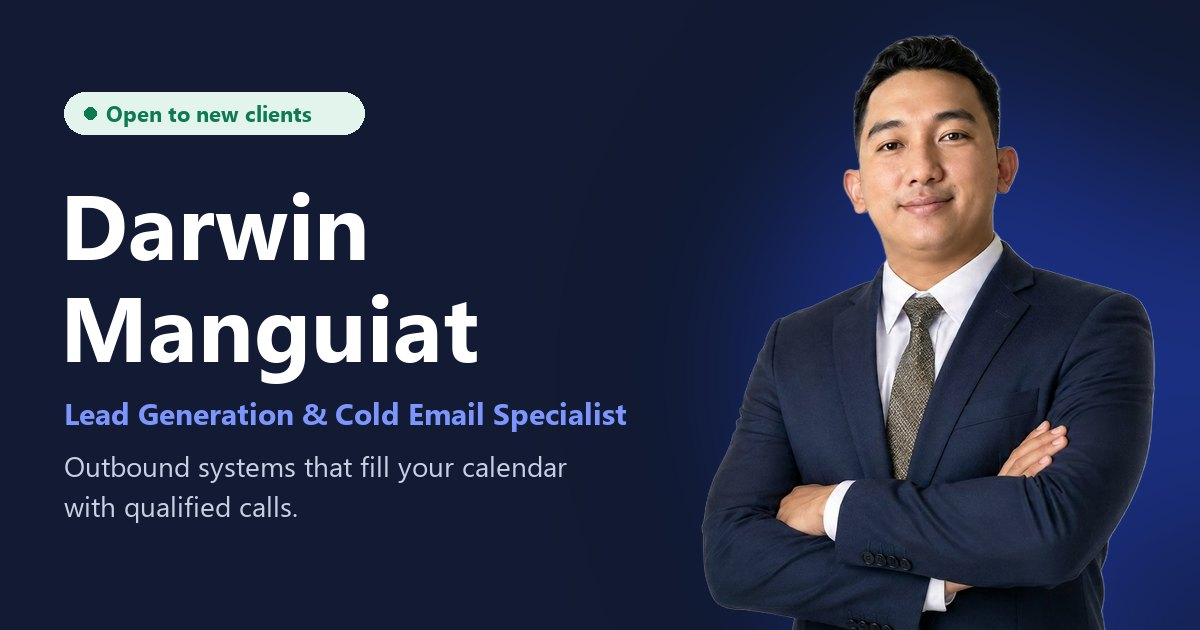
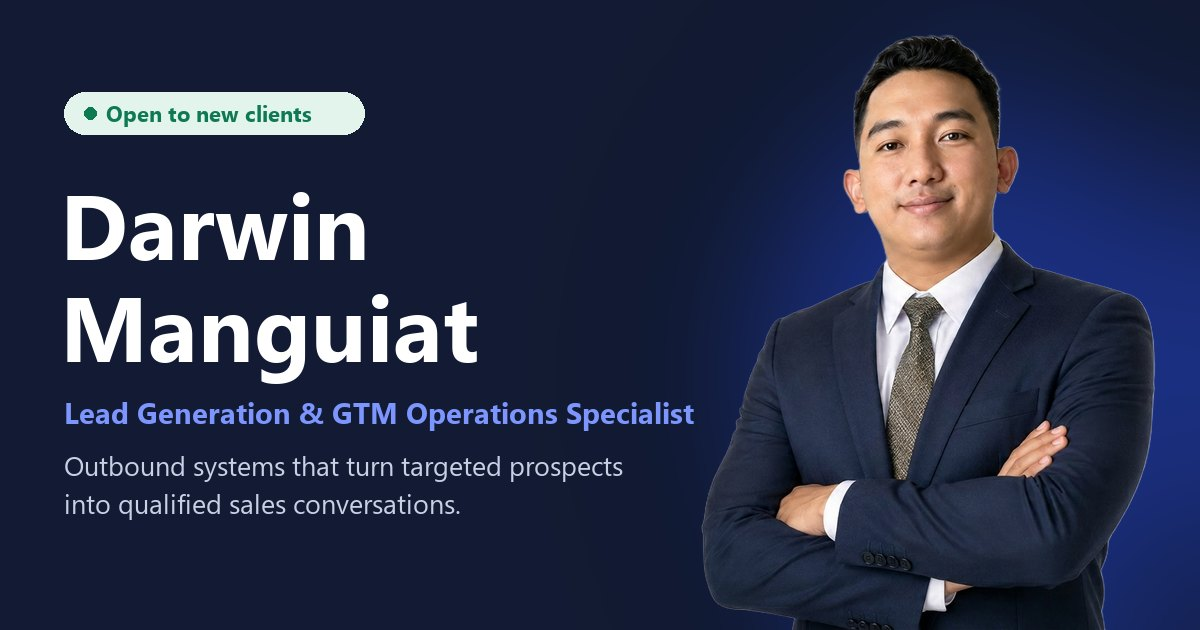
Group services into three specialties, add job title and campaign results

Changed region(s): [[0.0617, 0.6333, 0.5858, 0.6937], [0.0308, 0.7238, 0.5242, 0.8444]]

diff --git a/index.html b/index.html
@@ -7,8 +7,8 @@
 <link rel="canonical" href="https://dmanguiat.github.io/">
 <meta property="og:type" content="website">
 <meta property="og:url" content="https://dmanguiat.github.io/">
-<meta property="og:title" content="Darwin Manguiat | Lead Generation &amp; Cold Email Specialist">
-<meta property="og:description" content="Outbound systems that fill your calendar with qualified calls. Lead lists, deliverability, sequences, reply handling and booked meetings.">
+<meta property="og:title" content="Darwin Manguiat | Lead Generation &amp; GTM Operations Specialist">
+<meta property="og:description" content="Outbound systems that turn targeted prospects into qualified sales conversations: lead lists, cold email, deliverability, CRM and workflow automation.">
 <meta property="og:image" content="https://dmanguiat.github.io/og.jpg">
 <meta property="og:image:width" content="1200">
 <meta property="og:image:height" content="630">
@@ -20,7 +20,7 @@ body{margin:0}
 img{max-width:100%}
 [hidden]{display:none!important}
 </style>
-<title>Darwin Manguiat | Lead Generation &amp; Cold Email Specialist</title>
+<title>Darwin Manguiat | Lead Generation &amp; GTM Operations Specialist</title>
 <meta name="claude:viewport-fit-sides" content="cover">
 <meta name="description" content="Darwin Manguiat, lead generation and cold email specialist. Outbound systems that book qualified calls.">
 <link rel="preconnect" href="https://fonts.googleapis.com">
@@ -107,6 +107,7 @@ body,header.nav,.mail,.svc,.case,figure.q,.process{transition:background-color .
 .status{display:inline-flex;align-items:center;gap:8px;font-size:13px;font-weight:500;color:var(--win);background:var(--win-soft);padding:6px 12px;border-radius:99px;margin-bottom:22px}
 .status i{width:8px;height:8px;border-radius:50%;background:var(--win);box-shadow:0 0 0 0 var(--win);animation:pulse 2.4s infinite}
 @keyframes pulse{0%{box-shadow:0 0 0 0 color-mix(in srgb,var(--win) 60%,transparent)}70%{box-shadow:0 0 0 8px transparent}100%{box-shadow:0 0 0 0 transparent}}
+.hero .role{font-family:var(--display);font-weight:700;font-size:18px;color:var(--accent);margin-bottom:12px}
 .hero h1{font-size:clamp(38px,5.4vw,62px);line-height:1.04;font-weight:800}
 .hero h1 em{font-style:normal;color:var(--accent)}
 .hero .lede{font-size:18px;color:var(--muted);max-width:52ch;margin-top:20px}
@@ -165,6 +166,38 @@ section.block{padding-block:88px}
 .svc .tag{font-family:var(--mono);font-size:12px;color:var(--accent)}
 @media (max-width:1000px){.services{grid-template-columns:1fr 1fr}}
 @media (max-width:600px){.services{grid-template-columns:1fr}}
+
+/* specialties */
+.spec{display:grid;grid-template-columns:1.15fr 1fr 1fr;gap:20px;align-items:start}
+.spec-col{background:var(--surface);border:1px solid var(--line);border-radius:16px;padding:28px;display:grid;gap:16px;align-content:start;min-width:0}
+.spec-col.core{border-color:var(--accent);box-shadow:0 0 0 3px var(--accent-soft)}
+.spec-badge{font:600 12px var(--body);padding:4px 10px;border-radius:99px;justify-self:start;background:var(--bg);color:var(--muted);border:1px solid var(--line)}
+.spec-col.core .spec-badge{background:var(--accent);color:var(--accent-ink);border-color:var(--accent)}
+.spec-col h3{font-size:22px;font-weight:700;line-height:1.2}
+.spec-col > p{color:var(--muted);font-size:15px}
+.spec-list{list-style:none;margin:0;padding:18px 0 0;display:grid;gap:14px;border-top:1px solid var(--line)}
+.spec-list b{display:block;font-size:15.5px;font-weight:600}
+.spec-list span{font-size:14px;color:var(--muted)}
+@media (max-width:1000px){.spec{grid-template-columns:1fr}}
+
+/* campaign evidence table */
+.evidence{background:var(--surface);border:1px solid var(--line);border-radius:16px;padding:28px;margin-bottom:28px;display:grid;gap:18px;min-width:0}
+.ev-head{display:flex;flex-wrap:wrap;justify-content:space-between;align-items:baseline;gap:10px 24px}
+.ev-head h3{font-size:22px;font-weight:700}
+.ev-head a{font-weight:600;color:var(--accent);text-decoration:none}
+.ev-head a:hover{text-decoration:underline}
+.ev-table{overflow-x:auto;min-width:0}
+.ev-table table{border-collapse:collapse;width:100%;font-variant-numeric:tabular-nums;white-space:nowrap}
+.ev-table th{font-family:var(--mono);font-size:11px;font-weight:500;letter-spacing:.06em;text-transform:uppercase;color:var(--muted);text-align:right;padding:10px 14px;border-bottom:1px solid var(--line)}
+.ev-table td{padding:14px;text-align:right;border-bottom:1px solid var(--line);font-size:15px}
+.ev-table th:first-child,.ev-table td:first-child{text-align:left;padding-left:0}
+.ev-table tr:last-child td{border-bottom:0}
+.ev-table td.big{font-family:var(--display);font-weight:700;font-size:20px}
+.ev-table td.rr{color:var(--win);font-weight:600}
+.ev-table .prog b{display:block;font-weight:600}
+.ev-table .prog span{font-size:13px;color:var(--muted)}
+.ev-note{font-size:13px;color:var(--muted)}
+@media (max-width:600px){.evidence{padding:20px 16px}}
 
 /* process */
 .process{background:var(--surface);border-block:1px solid var(--line)}
@@ -366,6 +399,7 @@ footer .wrap{display:flex;justify-content:space-between;gap:12px;flex-wrap:wrap}
     <div class="wrap">
       <div>
         <div class="status"><i></i>Open to new clients · Philippines (remote)</div>
+        <p class="role">Lead Generation &amp; GTM Operations Specialist</p>
         <h1>I build outbound systems that fill your calendar with <em>qualified calls</em>.</h1>
         <p class="lede">Lead generation and cold email specialist. I handle the whole pipeline: lead lists, deliverability, sequences, inbox replies and booked meetings.</p>
         <div class="ctas">
@@ -373,7 +407,7 @@ footer .wrap{display:flex;justify-content:space-between;gap:12px;flex-wrap:wrap}
           <a class="btn btn-ghost" href="#work">See case studies</a>
           <a class="btn btn-ghost" href="https://drive.google.com/file/d/1bTu3iyaLOcA62vVIAhjjKeeh6_ApAZ7h/view?usp=sharing" target="_blank" rel="noopener">Resume</a>
         </div>
-        <p class="who"><b>Darwin Manguiat</b> · 8+ years supporting US businesses in lead gen, executive support and QA</p>
+        <p class="who"><b>Darwin Manguiat</b> · 3+ years in lead generation and GTM operations · 8+ years supporting US businesses overall</p>
       </div>
 
       <div class="hero-visual">
@@ -424,17 +458,42 @@ footer .wrap{display:flex;justify-content:space-between;gap:12px;flex-wrap:wrap}
     <div class="wrap">
       <div class="sec-head">
         <span class="eyebrow">Services</span>
-        <h2>Everything that turns strangers into booked calls</h2>
+        <h2>Three specialties, one goal: more qualified sales conversations</h2>
       </div>
-      <div class="services">
-        <div class="svc"><span class="tag">Prospecting</span><h3>Lead generation</h3><p>Targeted research to find, verify and qualify high-value prospects that fit your ideal customer profile.</p></div>
-        <div class="svc"><span class="tag">Outbound</span><h3>Cold email outreach</h3><p>Multi-step sequences with personalised copy. One campaign increased qualified leads by 25%.</p></div>
-        <div class="svc"><span class="tag">Technical</span><h3>Email deliverability</h3><p>SMTP, SPF, DKIM and DMARC set up from scratch, plus domain warm-up so your emails reach the inbox.</p></div>
-        <div class="svc"><span class="tag">Replies</span><h3>Inbox management</h3><p>I handle replies across multiple inboxes, qualify leads, follow up and book appointments so no opportunity is missed.</p></div>
-        <div class="svc"><span class="tag">LinkedIn</span><h3>LinkedIn outreach</h3><p>Connection and DM sequences with Sales Navigator targeting, plus appointment setting.</p></div>
-        <div class="svc"><span class="tag">Data</span><h3>CRM management</h3><p>Clean, organised pipelines in HubSpot, GoHighLevel and Pipedrive, so every lead's status is clear.</p></div>
-        <div class="svc"><span class="tag">Social</span><h3>Social media management</h3><p>Content calendars, scheduled posts and community replies that keep your brand visible and build trust before the first email lands.</p></div>
-        <div class="svc"><span class="tag">Paid ads</span><h3>Media buying</h3><p>Meta and Google ad campaigns: audience targeting, budget allocation and weekly optimisation to lower your cost per lead.</p></div>
+      <div class="spec">
+        <div class="spec-col core">
+          <span class="spec-badge">Core specialty</span>
+          <h3>Outbound Lead Generation</h3>
+          <p>Finding the right prospects and turning them into booked sales conversations.</p>
+          <ul class="spec-list">
+            <li><b>Prospect research &amp; list building</b><span>ICP-matched, verified contacts from Apollo, Clay and Sales Navigator.</span></li>
+            <li><b>Cold email outreach</b><span>Personalised multi-step sequences in Instantly, Smartlead or Lemlist.</span></li>
+            <li><b>Email deliverability</b><span>SMTP, SPF, DKIM and DMARC setup plus domain warm-up.</span></li>
+            <li><b>LinkedIn outreach</b><span>Connection and DM sequences with Sales Navigator targeting.</span></li>
+            <li><b>Inbox management &amp; appointment setting</b><span>Reply handling, lead qualification, follow-ups and booked calls.</span></li>
+          </ul>
+        </div>
+        <div class="spec-col">
+          <span class="spec-badge">Operations</span>
+          <h3>GTM Operations &amp; Automation</h3>
+          <p>The systems behind outbound, so leads move through the pipeline without manual work.</p>
+          <ul class="spec-list">
+            <li><b>CRM management</b><span>Clean pipelines in HubSpot, GoHighLevel and Pipedrive.</span></li>
+            <li><b>Workflow automation</b><span>n8n, Make and Zapier workflows that connect your sales tools.</span></li>
+            <li><b>Lead enrichment &amp; verification</b><span>Clay enrichment and email verification before anything is sent.</span></li>
+            <li><b>Reporting</b><span>Campaign and pipeline reports your team can act on.</span></li>
+          </ul>
+        </div>
+        <div class="spec-col">
+          <span class="spec-badge">Supporting</span>
+          <h3>Digital Marketing Support</h3>
+          <p>Keeping your brand visible while outbound does the heavy lifting.</p>
+          <ul class="spec-list">
+            <li><b>Social media management</b><span>Content calendars, scheduled posts and community replies.</span></li>
+            <li><b>Media buying</b><span>Meta and Google ad campaigns: targeting, budgets and optimisation.</span></li>
+            <li><b>AI content workflows</b><span>Automated copy and creative drafts with an approval step.</span></li>
+          </ul>
+        </div>
       </div>
     </div>
   </section>
@@ -481,6 +540,21 @@ footer .wrap{display:flex;justify-content:space-between;gap:12px;flex-wrap:wrap}
         <span class="eyebrow">Case studies</span>
         <h2>Real campaigns: the problem, what I did, and the result</h2>
       </div>
+      <div class="evidence">
+        <div class="ev-head"><h3>Cold email programs I've managed</h3><a href="https://darwinmportfolio.lovable.app/Cold-Email-Portfolio.pdf" target="_blank" rel="noopener">See the dashboard screenshots (PDF) →</a></div>
+        <div class="ev-table">
+          <table>
+            <thead><tr><th>Program</th><th>Emails sent</th><th>Reply rate</th><th>Opportunities</th><th>Revenue tracked</th></tr></thead>
+            <tbody>
+              <tr><td class="prog"><b>GTM industry</b><span>High-volume outreach · Feb to Feb (about 12 months)</span></td><td class="big">767.6K</td><td class="rr">4.52%</td><td>4,500</td><td>$11,016</td></tr>
+              <tr><td class="prog"><b>Franchising</b><span>Enterprise-scale outreach · Apr to Oct (about 6 months)</span></td><td class="big">4.56M</td><td class="rr">2.68%</td><td>8,600</td><td>$8,610</td></tr>
+              <tr><td class="prog"><b>Funding</b><span>Targeted outreach · Nov to Feb (about 3 months)</span></td><td class="big">50K</td><td class="rr">2.92%</td><td>75</td><td>—</td></tr>
+            </tbody>
+          </table>
+        </div>
+        <p class="ev-note">Figures as reported in each program's campaign dashboard. Screenshots are in the linked PDF.</p>
+      </div>
+
       <div class="cases">
         <article class="case">
           <div class="top"><span class="client">SaaS startup</span></div>
